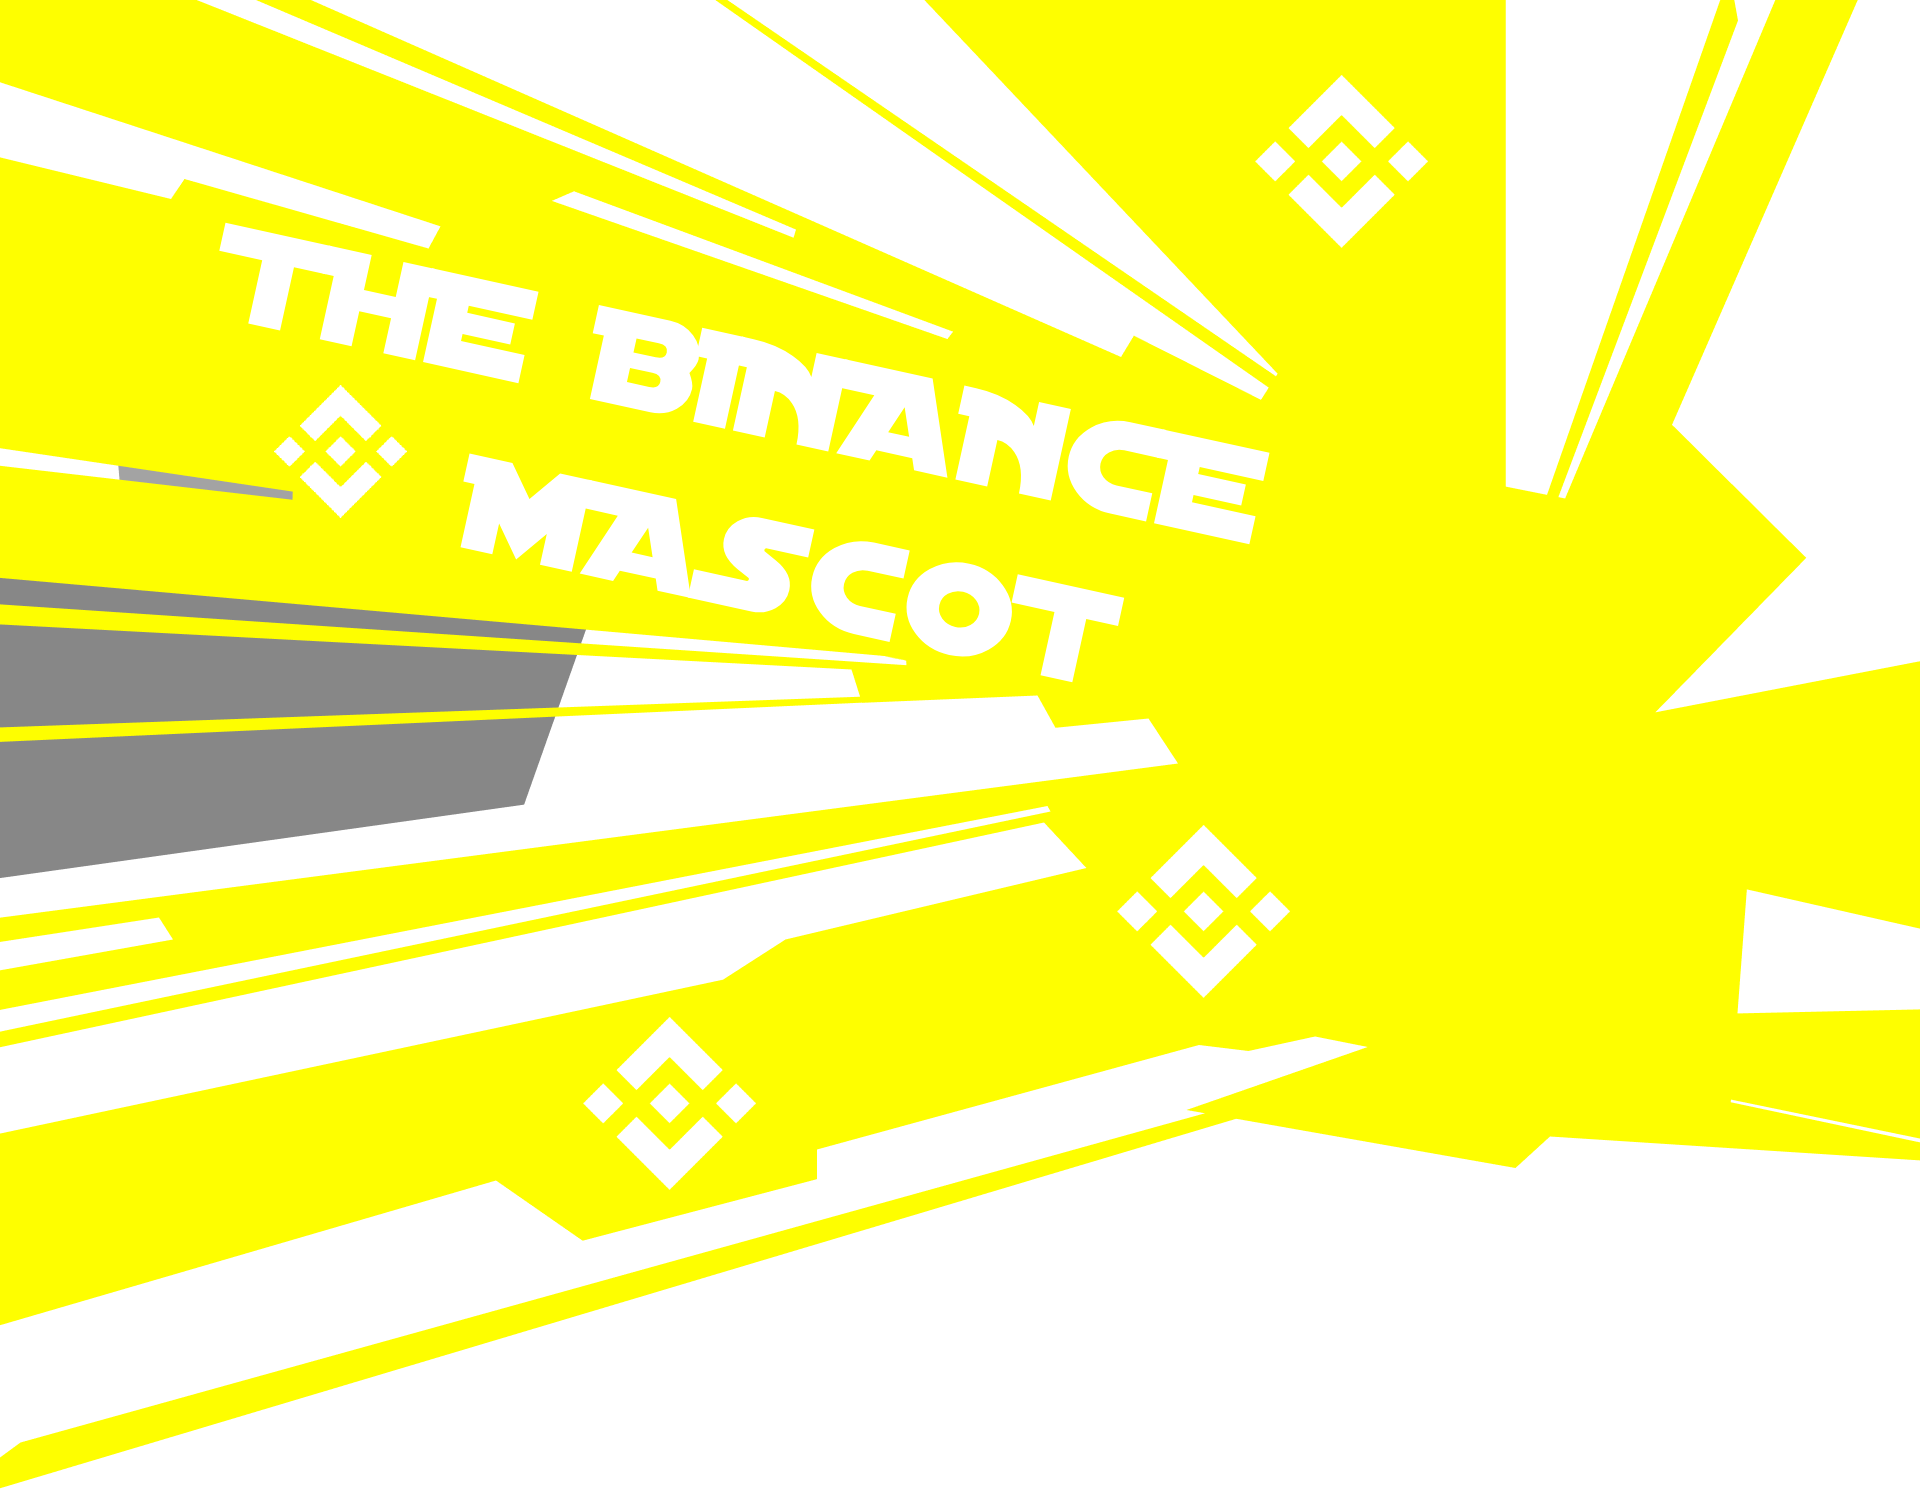
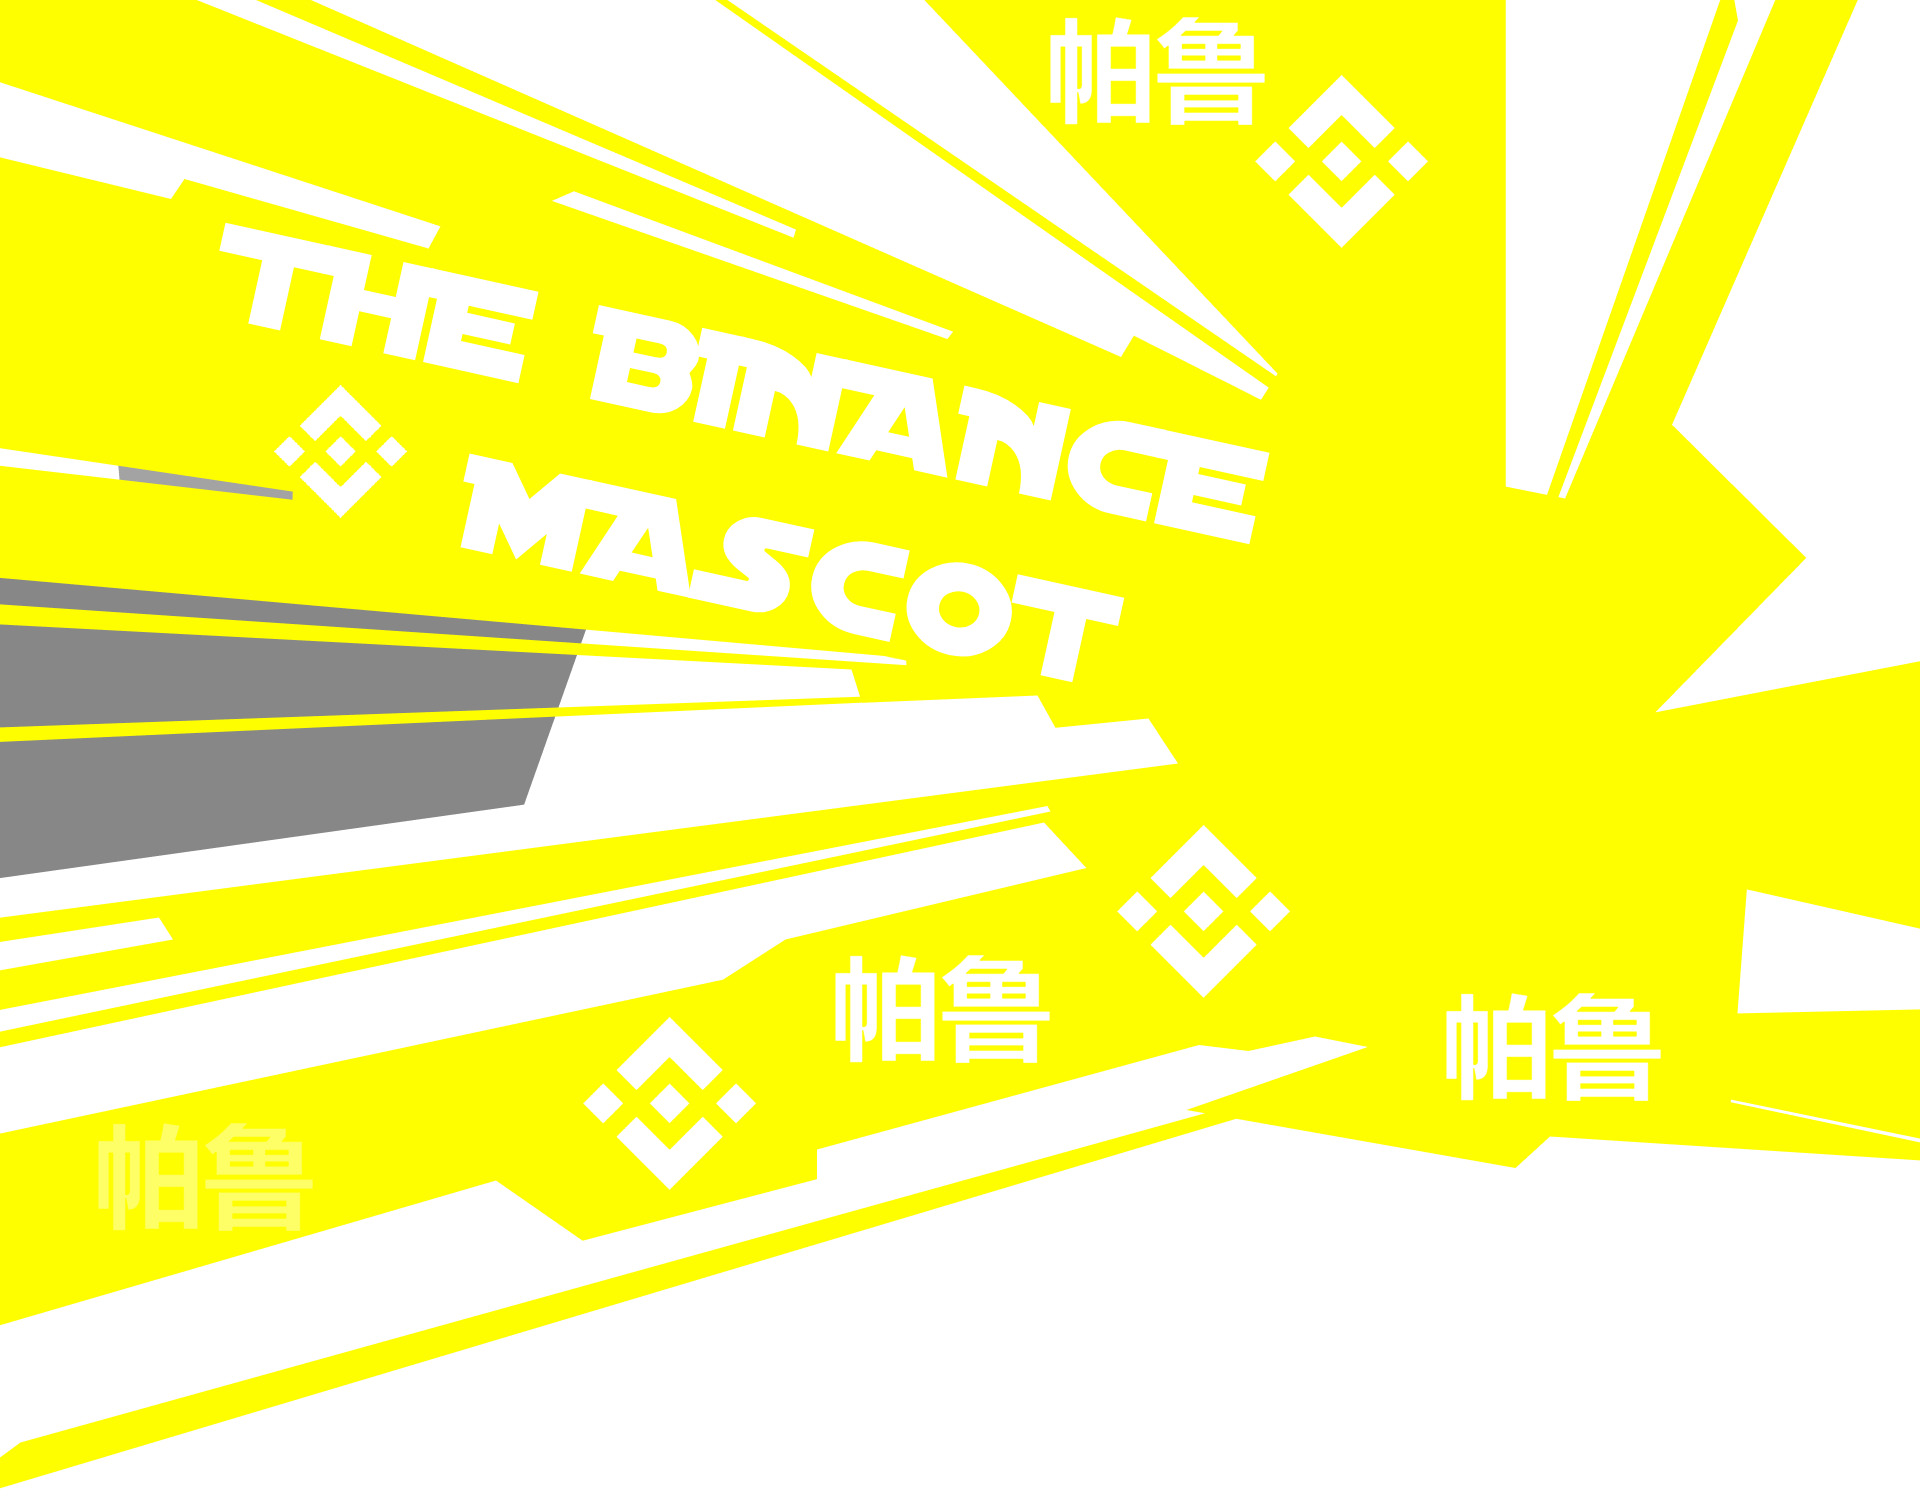
more

diff --git a/index.html b/index.html
@@ -2,10 +2,13 @@
 <html lang="en">
 
 <head>
-	<title>The Binance Mascot</title>
+	<title>The Binance Mascot | 帕鲁 (Palu)</title>
 	<meta charset="UTF-8" />
 	<meta name="format-detection" content="telephone=no" />
 	<style>
+		.myhero{
+    opacity: 5%; position: fixed;height: 100%; width: 100%; z-index: 40; top: 0; left: 0; pointer-events: none; background-blend-mode: overlay; background-image: url('/images/1grain.BVZAnKJ_.gif');
+		}
 		body {
 			opacity: 0;
 			transition: opacity 0.2s ease 0.2s;
@@ -21,6 +24,7 @@
 </head>
 
 <body>
+	<div class="myhero"></div>
 	<div class="wrapper">
 		<header class="header">
 			<div class="header__container">
@@ -93,8 +97,9 @@
 							</h2>
 							<h4 class="about-hero__label">The Binance Mascot</h4>
 							<p class="about-hero__text">
-								The Binance Mascot - $PALU - moving well. At highs so be safe if going in. Good ticker.
+								The Binance Mascot - $帕鲁(PALU) - moving well. At highs so be safe if going in. Good ticker.
 							</p>
+							<br>
 							<p class="about-hero__text">
 										Palu is not just a token; it's a character! With a personality that's as bright as its shiny head, Palu embodies the essence of the crypto community—playful, innovative, and always ready for a good laugh. While Palu once dreamed of becoming a doll, the playful banter around its shiny emoji-like head led to the creation of this unique token.
 						</p>
@@ -402,7 +407,7 @@
 						</p>
 						<div class="welcome__buttons">
 							<a target="_blank" href="https://pancakeswap.finance/swap?outputCurrency=0x309094166528886Bf13D85fDC24C20b5A5743061" class="welcome__button">
-								<span>Buy $PALU</span>
+								<span>Buy $帕鲁(PALU)</span>
 							</a>
 							
 						</div>
